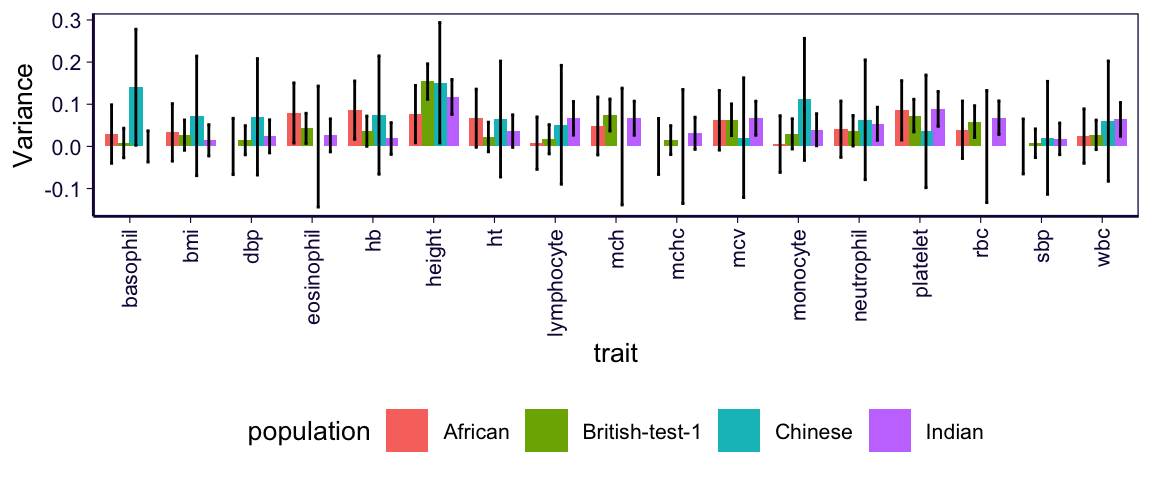
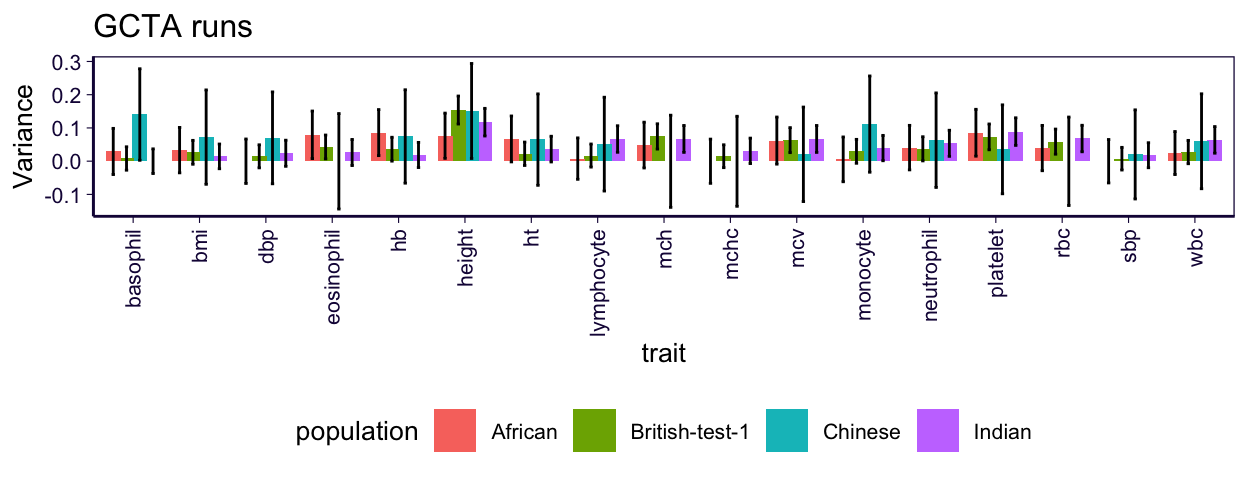
updated reml report (added hail runs)

diff --git a/docs/regulability_gcta.html b/docs/regulability_gcta.html
@@ -11,7 +11,7 @@
 
 
 
-<title>Regulability based on predicted expression (GCTA runs)</title>
+<title>Regulability based on predicted expression (GCTA runs and HAIL runs)</title>
 
 <script src="site_libs/jquery-1.11.3/jquery.min.js"></script>
 <meta name="viewport" content="width=device-width, initial-scale=1" />
@@ -421,7 +421,7 @@ div.tocify {
 
 
 
-<h1 class="title toc-ignore">Regulability based on predicted expression (GCTA runs)</h1>
+<h1 class="title toc-ignore">Regulability based on predicted expression (GCTA runs and HAIL runs)</h1>
 
 </div>
 
@@ -467,8 +467,21 @@ lrt = do.call(rbind, lrt_list)
 est = est %&gt;% inner_join(df_trait %&gt;% select(trait, long), by = &#39;trait&#39;)
 lrt = lrt %&gt;% inner_join(df_trait %&gt;% select(trait, long), by = &#39;trait&#39;)</code></pre>
 </div>
+<div id="load-hail-runs" class="section level2">
+<h2><span class="header-section-number">2.2</span> Load hail runs</h2>
+<pre class="r"><code>hail_list = list()
+for(p in pops) {
+  filename = paste0(result_dir, &#39;/&#39;, &#39;reml_from_hail_martin_et_al_traits_x_ctimp_Whole_Blood_x_&#39;, p, &#39;.tsv&#39;) 
+  df = read.delim2(filename)
+  hail_list[[length(hail_list) + 1]] = df %&gt;% mutate(population = p)
+}
+hail = do.call(rbind, hail_list)
+class(hail$h_sq_se) = &#39;numeric&#39;
+class(hail$h_sq) = &#39;numeric&#39;
+hail = hail %&gt;% inner_join(df_trait %&gt;% select(trait, long), by = &#39;trait&#39;)</code></pre>
+</div>
 <div id="heritability-from-ldsc-regression-by-neales-lab" class="section level2">
-<h2><span class="header-section-number">2.2</span> Heritability from LDSC regression by Neale’s lab</h2>
+<h2><span class="header-section-number">2.3</span> Heritability from LDSC regression by Neale’s lab</h2>
 <pre class="r"><code>df_ldsc = read.delim2(&#39;~/Downloads/ukb31063_h2_topline.02Oct2019.tsv.gz&#39;) %&gt;% mutate(ukbb_code = unlist(lapply(strsplit(phenotype, &#39;_&#39;), function(x){x[1]}))) %&gt;% filter(ukbb_code %in% df_info$UKBB.code)
 class(df_ldsc$h2_observed) = &#39;numeric&#39;
 class(df_ldsc$h2_observed_se) = &#39;numeric&#39;
@@ -538,11 +551,40 @@ est %&gt;% filter(Source == &#39;V(G)/Vp&#39;) %&gt;%
   geom_bar(aes(x = trait, y = Variance, fill = population), stat = &#39;identity&#39;, , position = position_dodge(d)) + 
   geom_errorbar(aes(x = trait, group = population, ymax = Variance + 1.95 * SE, ymin = Variance - 1.96 * SE), position = position_dodge(d), width = .2) +
   theme(axis.text.x = element_text(angle = 90, hjust = 1, vjust = 0.5)) + 
-  theme(legend.position = &#39;bottom&#39;)</code></pre>
-<p><img src="regulability_gcta_files/figure-html/pve-1.png" width="576" /></p>
+  theme(legend.position = &#39;bottom&#39;) + 
+  ggtitle(&#39;GCTA runs&#39;)</code></pre>
+<p><img src="regulability_gcta_files/figure-html/pve-1.png" width="624" /></p>
+<pre class="r"><code>d = .8
+hail %&gt;% 
+  ggplot() + th + 
+  geom_bar(aes(x = trait, y = h_sq, fill = population), stat = &#39;identity&#39;, position = position_dodge(d)) + 
+  geom_errorbar(aes(x = trait, group = population, ymax = h_sq + 1.95 * h_sq_se, ymin = h_sq - 1.96 * h_sq_se), position = position_dodge(d), width = .2) +
+  theme(axis.text.x = element_text(angle = 90, hjust = 1, vjust = 0.5)) + 
+  theme(legend.position = &#39;bottom&#39;) + 
+  ggtitle(&#39;Hail runs&#39;)</code></pre>
+<pre><code>## Warning: Removed 8 rows containing missing values (geom_bar).</code></pre>
+<pre><code>## Warning: Removed 8 rows containing missing values (geom_errorbar).</code></pre>
+<p><img src="regulability_gcta_files/figure-html/pve2-1.png" width="624" /></p>
+</div>
+<div id="regulability-gcta-vs-hail-runs" class="section level2">
+<h2><span class="header-section-number">3.5</span> Regulability: GCTA vs hail runs</h2>
+<pre class="r"><code>hail$hail = hail$h_sq
+hail$hail[is.na(hail$hail)] = -0.1
+est %&gt;% filter(Source == &#39;V(G)/Vp&#39;) %&gt;% rename(gcta = Variance) %&gt;% inner_join(hail, by = c(&#39;trait&#39;, &#39;population&#39;)) %&gt;% 
+  ggplot() + th +
+  geom_abline(slope = c(1), intercept = 0, linetype = 2, color = &#39;gray&#39;) +
+  geom_hline(yintercept = 0, linetype = 2, color = &#39;gray&#39;) + 
+  geom_vline(xintercept = 0, linetype = 2, color = &#39;gray&#39;) +
+  geom_point(aes(y = gcta, x = hail), alpha = .5, size = 2) + 
+  geom_errorbarh(aes(y = gcta, xmin = hail - h_sq_se * 1.96,  xmax = hail + h_sq_se * 1.96), alpha = .5) +
+  geom_errorbar(aes(ymin = gcta - SE * 1.96, ymax = gcta + SE * 1.96, x = hail), alpha = .5) + 
+  coord_equal(ratio = 1) + 
+  facet_wrap(~population, ncol = 2)</code></pre>
+<pre><code>## Warning: Removed 8 rows containing missing values (geom_errorbarh).</code></pre>
+<p><img src="regulability_gcta_files/figure-html/g%20vs%20h-1.png" width="576" /></p>
 </div>
 <div id="heritability-from-ldsc" class="section level2">
-<h2><span class="header-section-number">3.5</span> Heritability from LDSC</h2>
+<h2><span class="header-section-number">3.6</span> Heritability from LDSC</h2>
 <pre class="r"><code>df_ldsc %&gt;% 
   ggplot() + th +
   geom_bar(aes(x = trait, y = h2_observed), stat = &#39;identity&#39;) +
@@ -551,7 +593,7 @@ est %&gt;% filter(Source == &#39;V(G)/Vp&#39;) %&gt;%
 <p><img src="regulability_gcta_files/figure-html/ldsc-1.png" width="576" /></p>
 </div>
 <div id="heritability-vs-regulability" class="section level2">
-<h2><span class="header-section-number">3.6</span> Heritability vs regulability</h2>
+<h2><span class="header-section-number">3.7</span> Heritability vs regulability</h2>
 <pre class="r"><code>est %&gt;% filter(Source == &#39;V(G)/Vp&#39;) %&gt;% rename(regu = Variance) %&gt;% inner_join(df_ldsc, by = &#39;trait&#39;) %&gt;% 
   ggplot() + th +
   geom_abline(slope = c(.2, 1), intercept = 0, linetype = 2, color = &#39;gray&#39;) + 
